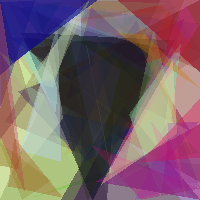
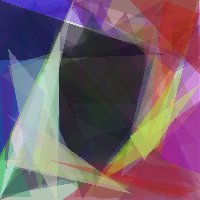
changed mutatuon behavior for another variation, progress but small

diff --git a/variants/evoart_variant6_mu_plus_lambda.py b/variants/evoart_variant6_mu_plus_lambda.py
@@ -116,10 +116,12 @@ def mutate_shape(shape, amount=4):
 
 
 def shape_add_probability(shape_count):
-    if shape_count < 30:
-        return 0.45
-    if shape_count <= 70:
-        return 0.2
+    if shape_count < 25:
+        return 0.35
+    if shape_count < 60:
+        return 0.18
+    if shape_count < 90:
+        return 0.08
     return 0.02
 
 
@@ -132,15 +134,6 @@ def move_shape_order(solution):
     shift = random.choice((-3, -2, -1, 1, 2, 3))
     new_index = clamp(old_index + shift, 0, len(solution))
     solution.insert(new_index, shape)
-    return solution
-
-
-def swap_shape_order(solution):
-    if len(solution) < 2:
-        return solution
-
-    first, second = random.sample(range(len(solution)), 2)
-    solution[first], solution[second] = solution[second], solution[first]
     return solution
 
 
@@ -157,11 +150,8 @@ def mutate(solution, rate=1.0):
     if mutated and random.random() < 0.04:
         mutated[random.randrange(len(mutated))] = random_shape()
 
-    if len(mutated) > 1 and random.random() < 0.12:
+    if len(mutated) > 1 and random.random() < 0.08:
         mutated = move_shape_order(mutated)
-
-    if len(mutated) > 1 and random.random() < 0.06:
-        mutated = swap_shape_order(mutated)
 
     if len(mutated) > 1 and random.random() < 0.01:
         del mutated[random.randrange(len(mutated))]
